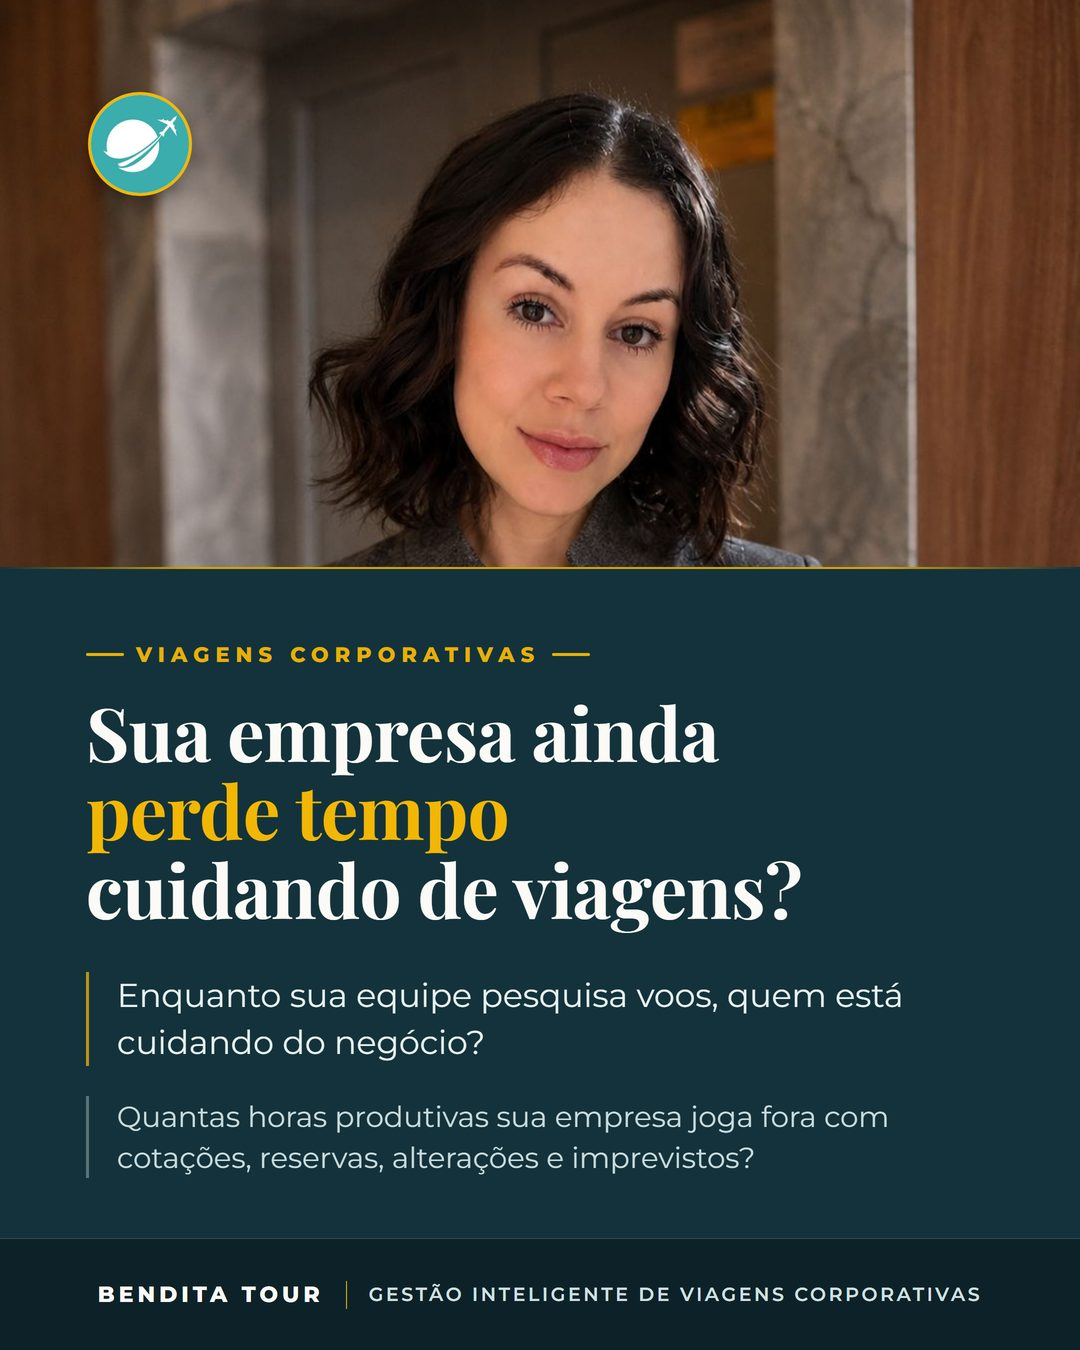
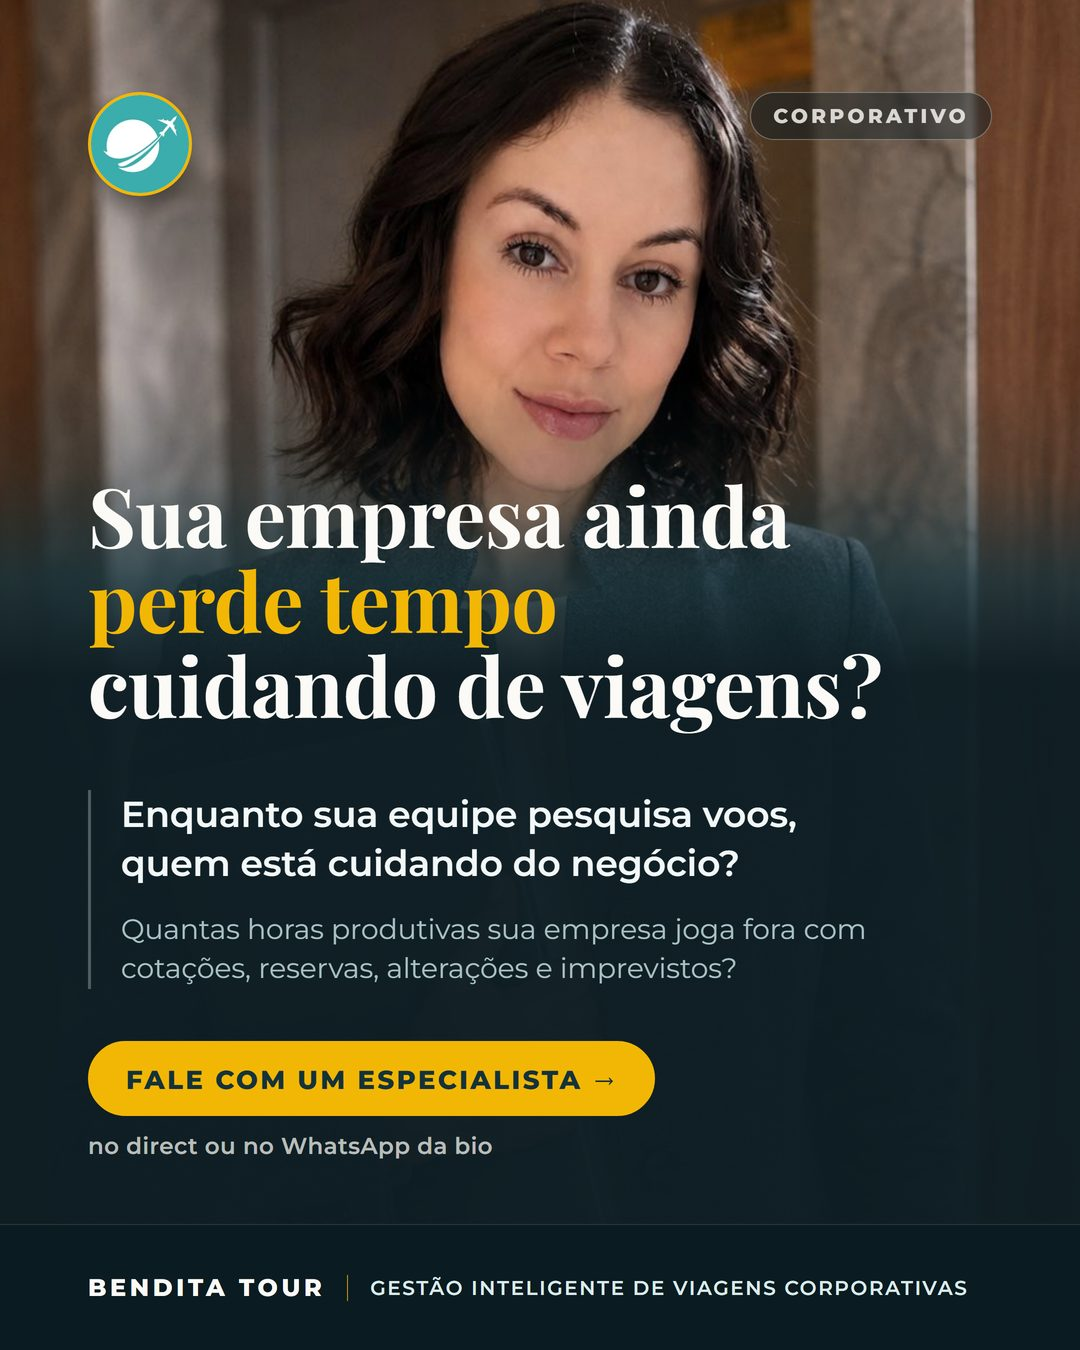
Atelie publicado

diff --git a/produto/posts/2026-09/viagens-corporativas-gestao/estilo.css b/produto/posts/2026-09/viagens-corporativas-gestao/estilo.css
@@ -159,3 +159,59 @@ html,body{background:#07151a;min-height:100vh;display:flex;justify-content:cente
   background:rgba(10,27,33,.45);backdrop-filter:blur(4px);
   font-family:var(--font-base);font-size:20px;font-weight:800;letter-spacing:3.4px;
   text-transform:uppercase;color:rgba(251,250,246,.82)}
+
+/* ============================================================
+   CADA FORMATO E UMA ARTE, NAO UMA ADAPTACAO (pedido do Andre, 05/09).
+   O 4:5 acima e a peca base. Aqui embaixo, o 9:16 e o 1:1 sao
+   redesenhados para o espaco que tem — nao apenas "esticados".
+   ============================================================ */
+
+/* ---------- STORIES 9:16 (1080x1920): sobra altura, entao a foto vira presenca
+     e a tipografia cresce. O rodape sobe: a UI do app come a base da tela. ---------- */
+/* no stories a foto e FAIXA (nao full-bleed): so assim o rosto fica inteiro em cima e o
+   texto tem painel proprio. Full-bleed aqui poe o titulo em cima da cara dela. */
+.f-9x16 .foto{height:40%;bottom:auto;transform:none;object-position:center 18%}
+.f-9x16 .veu{background:linear-gradient(0deg,
+  rgba(14,30,36,.97) 0%,
+  rgba(14,30,36,.97) 60%,
+  rgba(20,50,59,.80) 66%,
+  rgba(20,50,59,.22) 72%,
+  rgba(20,50,59,0)   79%)}
+.f-9x16 .conteudo{padding:var(--pad-topo) 88px 300px;justify-content:flex-end}
+.f-9x16 .titulo{font-size:104px;line-height:1.03}
+.f-9x16 .frases{margin-top:78px;gap:30px;max-width:900px}
+.f-9x16 .frases p{font-size:44px;line-height:1.34}
+.f-9x16 .frases p + p{font-size:35px;line-height:1.4}
+.f-9x16 .cta-linha{margin-top:66px;font-size:32px;padding:24px 46px}
+.f-9x16 .cta-caminho{font-size:28px;margin-top:20px}
+.f-9x16 .rodape{bottom:150px;height:132px}        /* acima da area que o app cobre */
+.f-9x16 .rodape .nome{font-size:26px}
+.f-9x16 .rodape .linha{font-size:22px}
+.f-9x16 .selo-eixo{top:var(--pad-topo);font-size:23px;padding:13px 26px}
+.f-9x16 .marca{width:120px;height:120px}
+
+/* ---------- QUADRADO 1:1 (1080x1080): retrato nao cabe em faixa horizontal — a cabeca
+     e maior que a faixa e o veu comia o rosto. Entao o quadrado ganha o desenho que ele
+     pede: DUAS COLUNAS — retrato inteiro na direita (formato alto, onde ele cabe), texto
+     na esquerda. Nao e o 4:5 espremido: e outra composicao. ---------- */
+.f-1x1 .foto{width:47%;left:auto;right:0;height:100%;transform:none;
+  object-position:52% 16%;filter:saturate(.9)}
+/* veu horizontal: escurece da esquerda (texto) para a direita (foto) */
+.f-1x1 .veu{background:linear-gradient(90deg,
+  rgba(14,30,36,.97) 0%,
+  rgba(14,30,36,.97) 50%,
+  rgba(20,50,59,.72) 58%,
+  rgba(20,50,59,.18) 67%,
+  rgba(20,50,59,0)   76%)}
+.f-1x1 .conteudo{padding:96px 60px 130px 72px;justify-content:center;max-width:600px}
+.f-1x1 .titulo{font-size:52px;line-height:1.08}
+.f-1x1 .frases{margin-top:34px;gap:0;max-width:470px;padding-left:22px;border-left-width:3px}
+.f-1x1 .frases p{font-size:26px;line-height:1.4}
+.f-1x1 .frases p + p{display:none}     /* no quadrado entra so a pergunta-gancho */
+.f-1x1 .cta-linha{margin-top:34px;font-size:21px;padding:15px 28px;letter-spacing:1.8px}
+.f-1x1 .cta-caminho{font-size:19px;margin-top:11px}
+.f-1x1 .rodape{height:88px;padding:0 72px;background:#0A1B21}
+.f-1x1 .rodape .nome{font-size:19px;letter-spacing:2.8px}
+.f-1x1 .rodape .linha{font-size:16px;letter-spacing:1.1px}
+.f-1x1 .selo-eixo{top:64px;right:64px;font-size:16px;padding:9px 17px;letter-spacing:2.4px}
+.f-1x1 .marca{width:82px;height:82px;top:64px;left:72px}

diff --git a/produto/mes-2026-09.html b/produto/mes-2026-09.html
@@ -76,8 +76,8 @@
         <div class="txt">
           <h2>Sua empresa ainda perde tempo cuidando de viagens?</h2>
           <div class="slug">viagens-corporativas-gestao</div>
-          <div class="baixar"><a href="ver.html?img=posts/2026-09/viagens-corporativas-gestao/exports/feed-vertical-4x5.png&amp;f=feed 4:5&amp;cod=B-033" target="_blank" rel="noopener">feed 4:5</a></div>
-          <div class="rascunho">rascunho (HTML): <a href="posts/2026-09/viagens-corporativas-gestao/feed-vertical-4x5.html">feed-vertical-4x5</a></div>
+          <div class="baixar"><a href="ver.html?img=posts/2026-09/viagens-corporativas-gestao/exports/feed-quadrado-1x1.png&amp;f=quadrado 1:1&amp;cod=B-033" target="_blank" rel="noopener">quadrado 1:1</a><a href="ver.html?img=posts/2026-09/viagens-corporativas-gestao/exports/feed-vertical-4x5.png&amp;f=feed 4:5&amp;cod=B-033" target="_blank" rel="noopener">feed 4:5</a><a href="ver.html?img=posts/2026-09/viagens-corporativas-gestao/exports/stories-9x16.png&amp;f=stories 9:16&amp;cod=B-033" target="_blank" rel="noopener">stories 9:16</a></div>
+          <div class="rascunho">rascunho (HTML): <a href="posts/2026-09/viagens-corporativas-gestao/feed-quadrado-1x1.html">feed-quadrado-1x1</a> · <a href="posts/2026-09/viagens-corporativas-gestao/feed-vertical-4x5.html">feed-vertical-4x5</a> · <a href="posts/2026-09/viagens-corporativas-gestao/stories-9x16.html">stories-9x16</a></div>
         </div>
       </article>
     </div>

diff --git a/produto/posts/2026-09/viagens-corporativas-gestao/stories-9x16.html b/produto/posts/2026-09/viagens-corporativas-gestao/stories-9x16.html
@@ -3,16 +3,16 @@
 <head>
 <meta charset="UTF-8">
 <meta name="viewport" content="width=1080">
-<title>Bendita Tour — post social · feed 4:5 (principal)</title>
+<title>Bendita Tour — post social · stories / reels 9:16</title>
 <link rel="preconnect" href="https://fonts.googleapis.com">
 <link rel="preconnect" href="https://fonts.gstatic.com" crossorigin>
 <link href="https://fonts.googleapis.com/css2?family=Montserrat:wght@400;600;700;800;900&family=Playfair+Display:wght@700;900&display=swap" rel="stylesheet">
 <link rel="stylesheet" href="../../../../marca/marca.css">
 <link rel="stylesheet" href="estilo.css">
-<style>.post{height:1350px;--pad-topo:92px;--pad-baixo:92px}</style>
+<style>.post{height:1920px;--pad-topo:190px;--pad-baixo:250px}</style>
 </head>
 <body>
-  <div class="post f-4x5">
+  <div class="post f-9x16">
     <img class="foto" alt="">
     <div class="veu"></div>
     <div class="marca"><img src="../../../../marca/assets/ICONE.webp" alt="Bendita Tour"></div>

diff --git a/produto/posts/2026-09/viagens-corporativas-gestao/feed-quadrado-1x1.html b/produto/posts/2026-09/viagens-corporativas-gestao/feed-quadrado-1x1.html
@@ -3,16 +3,16 @@
 <head>
 <meta charset="UTF-8">
 <meta name="viewport" content="width=1080">
-<title>Bendita Tour — post social · feed 4:5 (principal)</title>
+<title>Bendita Tour — post social · feed 1:1</title>
 <link rel="preconnect" href="https://fonts.googleapis.com">
 <link rel="preconnect" href="https://fonts.gstatic.com" crossorigin>
 <link href="https://fonts.googleapis.com/css2?family=Montserrat:wght@400;600;700;800;900&family=Playfair+Display:wght@700;900&display=swap" rel="stylesheet">
 <link rel="stylesheet" href="../../../../marca/marca.css">
 <link rel="stylesheet" href="estilo.css">
-<style>.post{height:1350px;--pad-topo:92px;--pad-baixo:92px}</style>
+<style>.post{height:1080px;--pad-topo:80px;--pad-baixo:80px}</style>
 </head>
 <body>
-  <div class="post f-4x5">
+  <div class="post f-1x1">
     <img class="foto" alt="">
     <div class="veu"></div>
     <div class="marca"><img src="../../../../marca/assets/ICONE.webp" alt="Bendita Tour"></div>

diff --git a/produto/posts/2026-09/viagens-corporativas-gestao/postagem.md b/produto/posts/2026-09/viagens-corporativas-gestao/postagem.md
@@ -4,15 +4,35 @@
 
 ## 1. O que postar
 
+- **feed quadrado (1:1 — 1080x1080)** — [feed-quadrado-1x1.png](https://logiccos.github.io/bendita-atelie-site/produto/posts/2026-09/viagens-corporativas-gestao/exports/feed-quadrado-1x1.png)
 - **feed (4:5 — 1080x1350)** — [feed-vertical-4x5.png](https://logiccos.github.io/bendita-atelie-site/produto/posts/2026-09/viagens-corporativas-gestao/exports/feed-vertical-4x5.png)
+- **stories/status (9:16 — 1080x1920)** — [stories-9x16.png](https://logiccos.github.io/bendita-atelie-site/produto/posts/2026-09/viagens-corporativas-gestao/exports/stories-9x16.png)
 
 > A imagem que se posta é o PNG. O link do rascunho (HTML) é só para conferir.
 
 ## 2. Legenda (copiar e colar)
 
 ```text
-_(sem legenda escrita — o ateliê precisa escrever antes de entregar)_
+Ninguém na sua empresa foi contratado para pesquisar voo.
 
+Mas é o que acontece todo mês: a secretária executiva compara três sites, o financeiro corre atrás de comprovante, o RH remarca o voo de quem perdeu a conexão — e cada um deles para o que estava fazendo de verdade.
+
+Viagem corporativa não é um problema de passagem. É um problema de tempo, de custo e de controle.
+
+Na Bendita Tour, a viagem da sua equipe deixa de ser tarefa de todo mundo e passa a ser responsabilidade de quem faz isso o dia inteiro.
+
+Faz a conta: quantas horas por mês a sua empresa gasta com isso? Chama no direct que a gente faz essa conta junto.
+
+
+#viagenscorporativas #turismocorporativo #gestaodeviagens #viagemanegocios #benditatour #gestaoempresarial #produtividadenotrabalho #rhestrategico #reducaodecustos #administracaodeempresas
+```
+
+## 3. Primeiro comentário
+
+Postar como primeiro comentário, logo depois da publicação:
+
+```text
+Se quiser, me conta aqui: quem cuida das viagens na sua empresa hoje? 👇
 ```
 
 ## 4. Texto alternativo (acessibilidade)
@@ -20,7 +40,7 @@ _(sem legenda escrita — o ateliê precisa escrever antes de entregar)_
 No Instagram: _Configurações avançadas → Escrever texto alternativo_.
 
 ```text
-Arte da Bendita Tour com o texto: Sua empresa ainda perde tempo cuidando de viagens?
+Mulher de blazer cinza em um corredor de escritório, olhando para a câmera. Sobre a foto, em fundo azul escuro, o texto: "Sua empresa ainda perde tempo cuidando de viagens?", seguido de duas perguntas sobre o tempo que a equipe gasta com cotações e remarcações, e a assinatura Bendita Tour — gestão de viagens corporativas.
 ```
 
 ## 5. Orientações para postar
@@ -40,3 +60,11 @@ Arte da Bendita Tour com o texto: Sua empresa ainda perde tempo cuidando de viag
 - [ ] A legenda foi lida por ela: nenhuma promessa de serviço que a agência não cumpre.
 - [ ] Nome, preço, data e telefone conferidos (o que estiver na arte).
 - [ ] O arquivo postado é o PNG de `exports/`, não o print do rascunho.
+
+## 7. Confirmar com a Josi antes de publicar
+
+Josi, três coisas desta entrega precisam do seu sim antes de ir ao ar:
+
+1. **A legenda diz que a viagem da equipe passa a ser responsabilidade de quem faz isso o dia inteiro.** Se na prática o atendimento for dividido, me fale que eu troco a frase.
+2. **A arte ganhou um botão que você não pediu: "Fale com um especialista".** A peça perguntava e não dava saída para a pessoa responder. Se não quiser, eu tiro.
+3. **A pessoa da foto é você, alguém da equipe, ou é foto de banco?** Se for de banco, o certo é não dar a entender que é gente da Bendita — eu troco por outra imagem.
